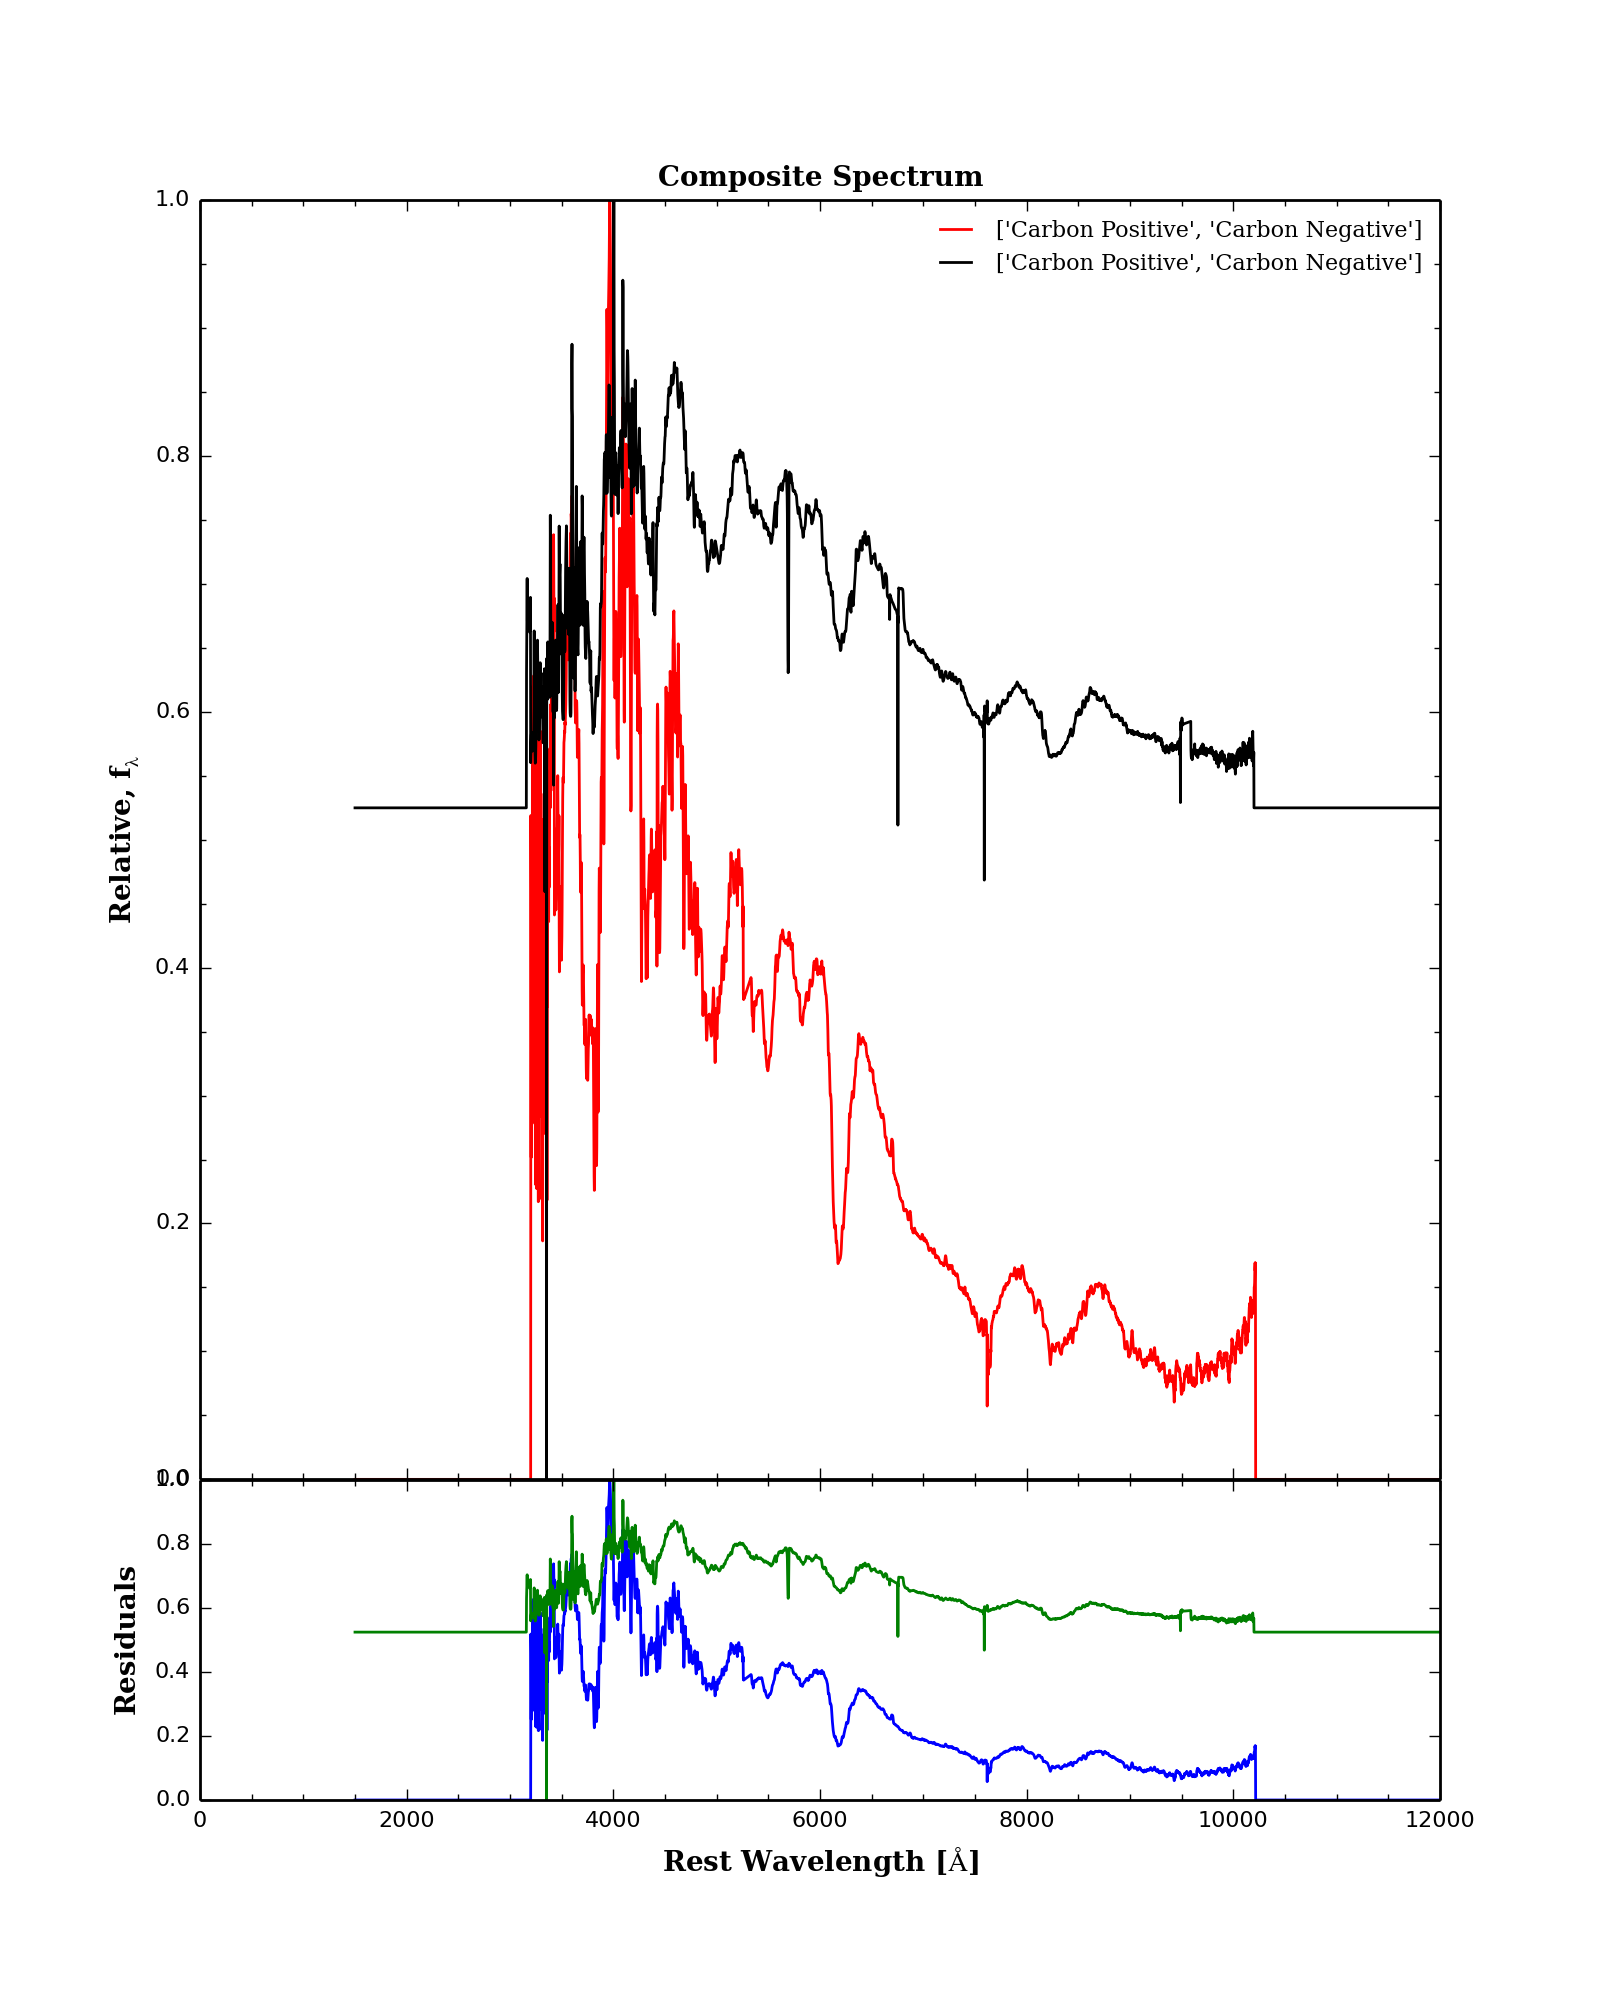
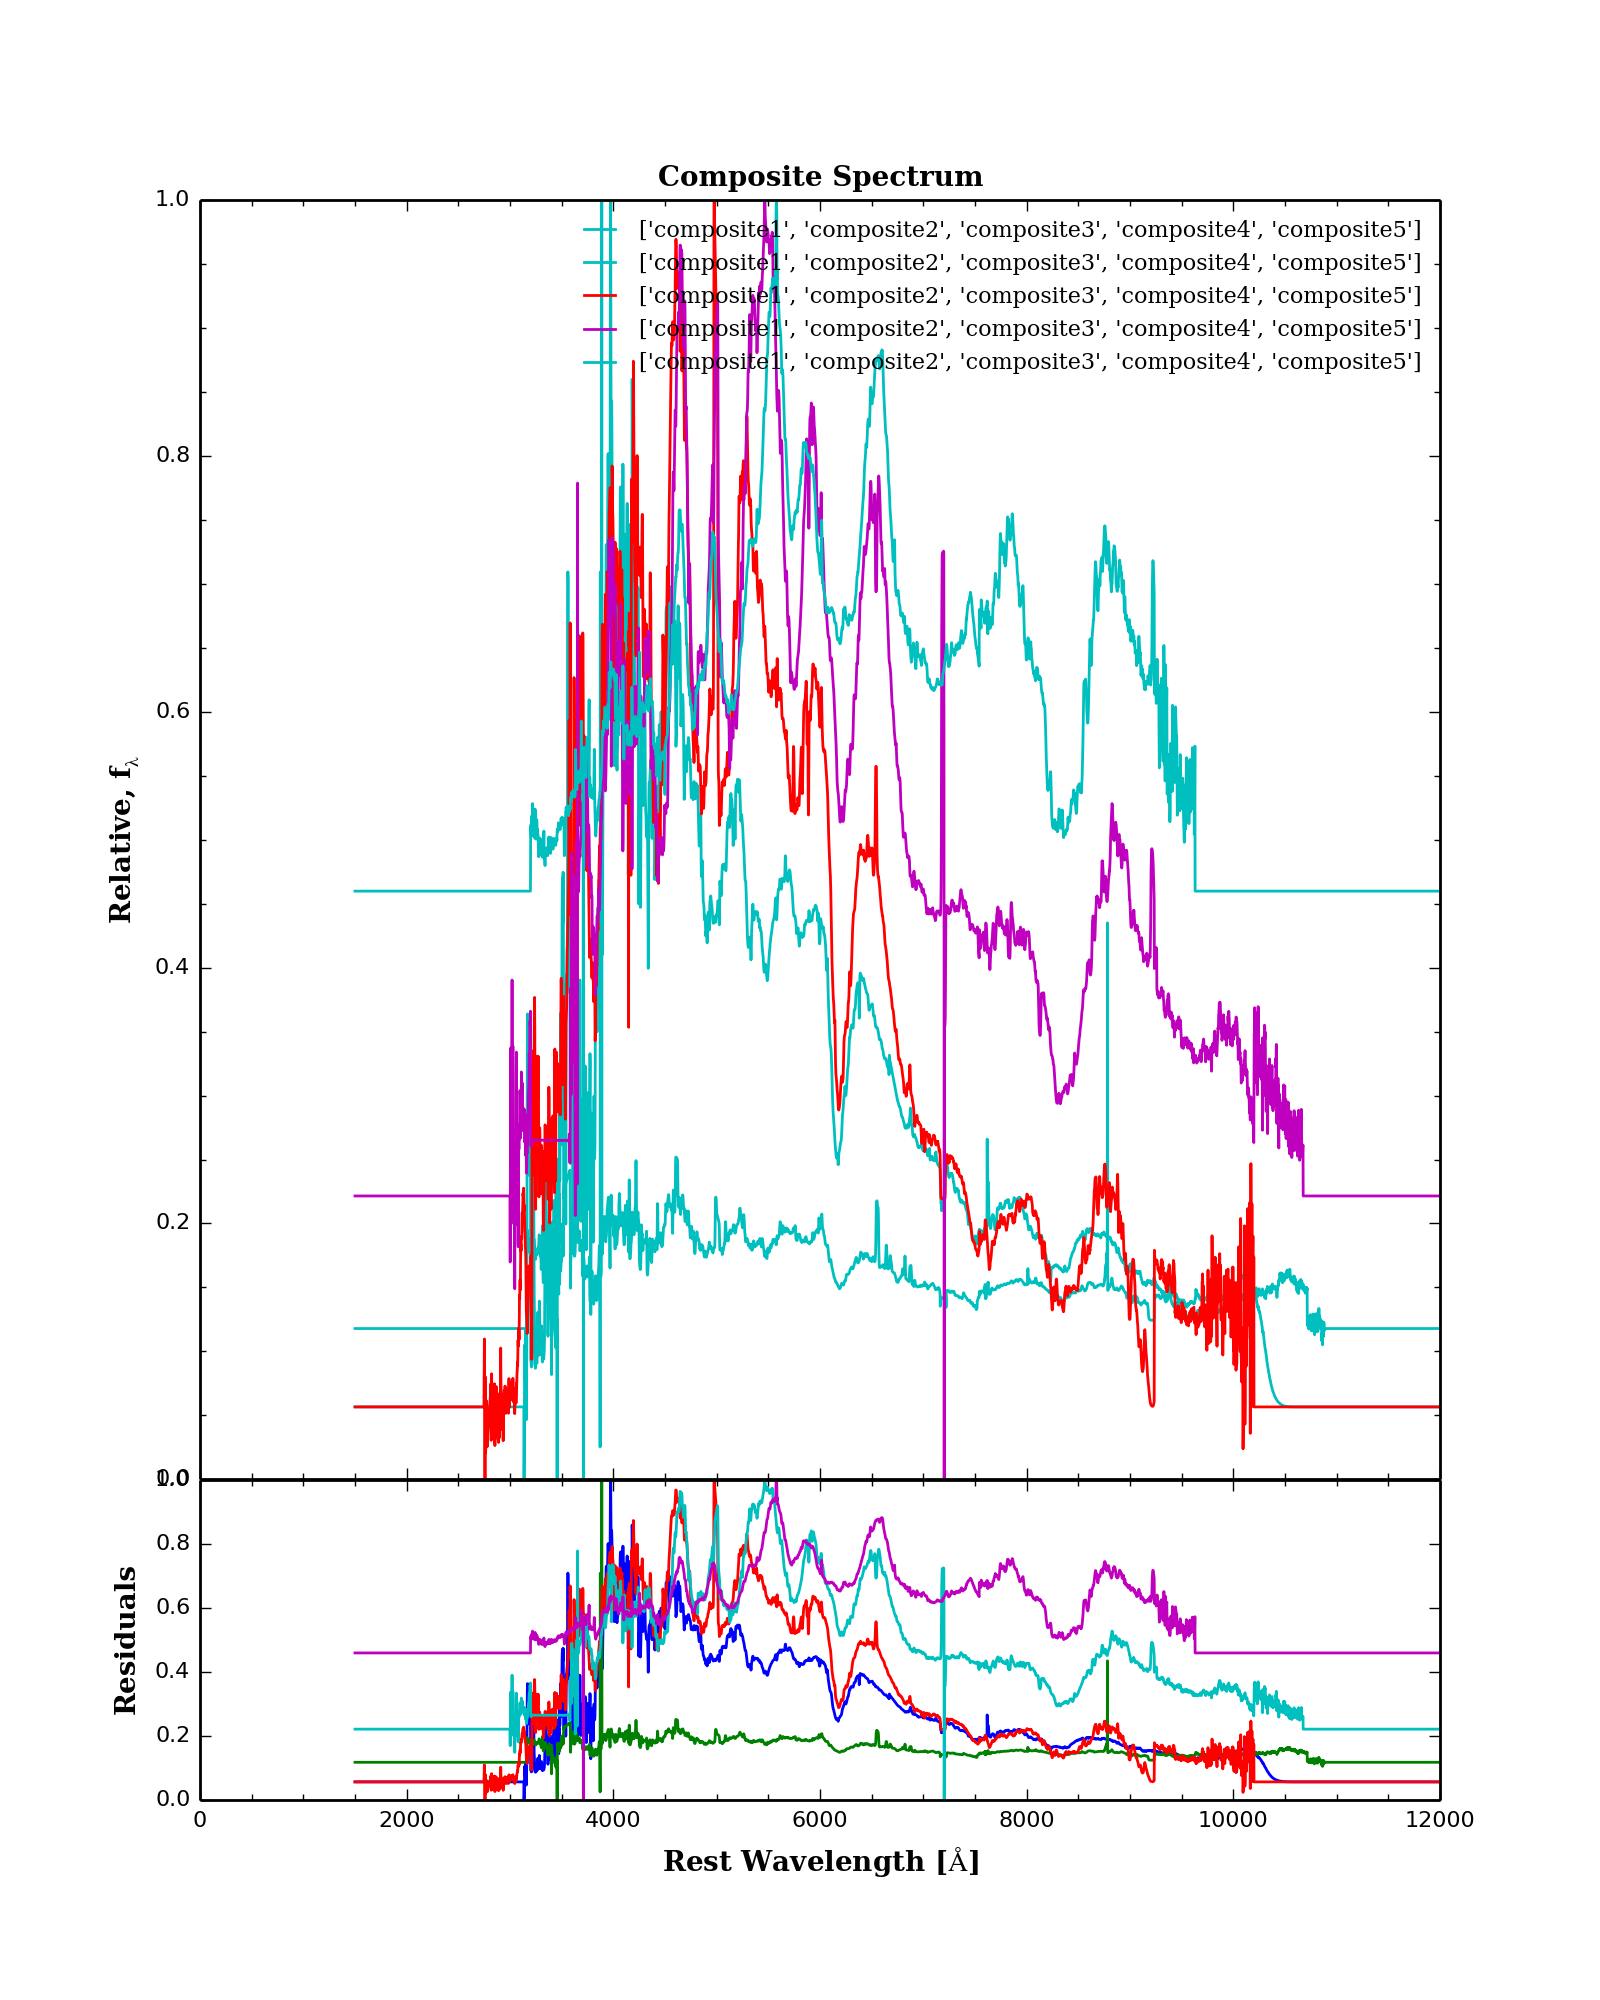
minor changes for modularity
there are still a couple of bugs, i left comments to indicate.

Changed region(s): [[0.2812, 0.093, 0.875, 0.744], [0.2188, 0.744, 0.9062, 0.899], [0.6562, 0.527, 0.6875, 0.558]]

diff --git a/src/Run.py b/src/Run.py
@@ -62,26 +62,38 @@ for n in range(queries):
 #This chunk will create an array that's the right length for however many queries you used.
 plot_array = []
 name_array = []
+residual_array = []
+variance_array = []
 for n in range(queries):
     plot_array.append(d["wavelengths{0}".format(n+1)])
     plot_array.append(d["fluxes{0}".format(n+1)])
-    name_array.append(d["composite{0}".format(n+1)].name)
+    residual_array.append(d["wavelengths{0}".format(n+1)])
+    residual_array.append(np.array([d["fluxes{0}".format(n+1)]-d["fluxes1"]]))
+    variance_array.append(d["wavelengths{0}".format(n+1)])
+    variance_array.append(d["variances{0}".format(n+1)])
+    name_array.append("composite{0}".format(n+1))
+    
+##################
+#If you want to use custom names for your composites,
+#fill out and uncomment this next line
+#name_array = ["composite1name", "composite2name", etc]
+##################
 
 Relative_Flux   = plot_array # Want to plot a composite of multiple spectrum
 #Technically, the variances are not the residuals. Plotting them is useful, but it's mislabeled here.
-Residuals       = [d["wavelengths1"], d["variances1"],d["wavelengths2"], d["variances2"]]
+Residuals       = residual_array
 Spectra_Bin     = [] 
 Age             = [] 
 Delta           = [] 
 Redshift        = []
-Names           = ["Carbon Positive" , "Carbon Negative"] #name_array # the names corresponding to each composite go here
-Show_Data       = [Relative_Flux, Residuals, Spectra_Bin, Age , Delta , Redshift] # Removed residual section 
+Names           = name_array #Every spectra is being labeled with the entire name_array instead of one each.
+Show_Data       = [Relative_Flux, Residuals, Spectra_Bin, Age , Delta , Redshift]
 ## Available Plots:  Relative Flux, Residuals, Spectra/Bin, Age, Delta, Redshift
 ##                   0              1          2            3    4      5         
 # the plots you want to create
 Plots        = [0,1] 
-#image_title  = "../plots/Composite_Spectrum_plotted.png"
-image_title  = "../plots/Carbon_presence_phase_3_3.png"				 
-title        = "Composite Spectrum"	
+image_title  = "../plots/" + str(sys.argv[1]) + "_composites.png"
+print "Plot saved as: " + image_title
+title        = "Composite Spectra Comparison"	
 # The following line will plot the data
 Plotting.main(Show_Data , Plots , image_title , title, Names)

diff --git a/src/Plotting.py b/src/Plotting.py
@@ -88,6 +88,8 @@ def main(Show_Data , Plots , image_title , title, Names):
         rf = Show_Data[:][0][i].T 
         RF.append(rf) 
     for i in range(len_RS):
+	#This is causing the residuals to just plot the composites again
+	#I tried changing the index but it gave me some weird error
         rs = Show_Data[:][0][i].T
         RS.append(rs) 
     for i in range(len_SB):
